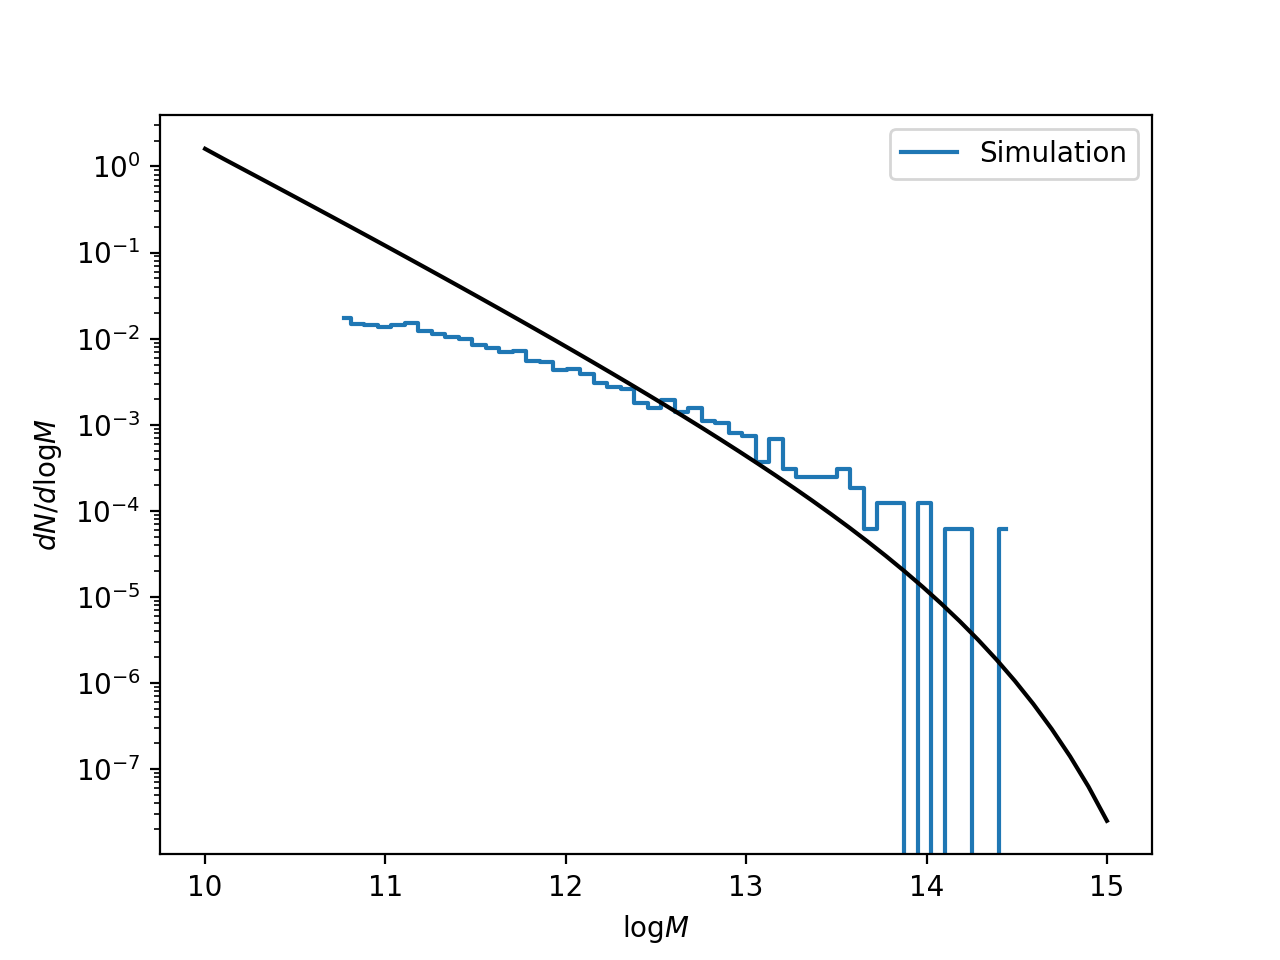
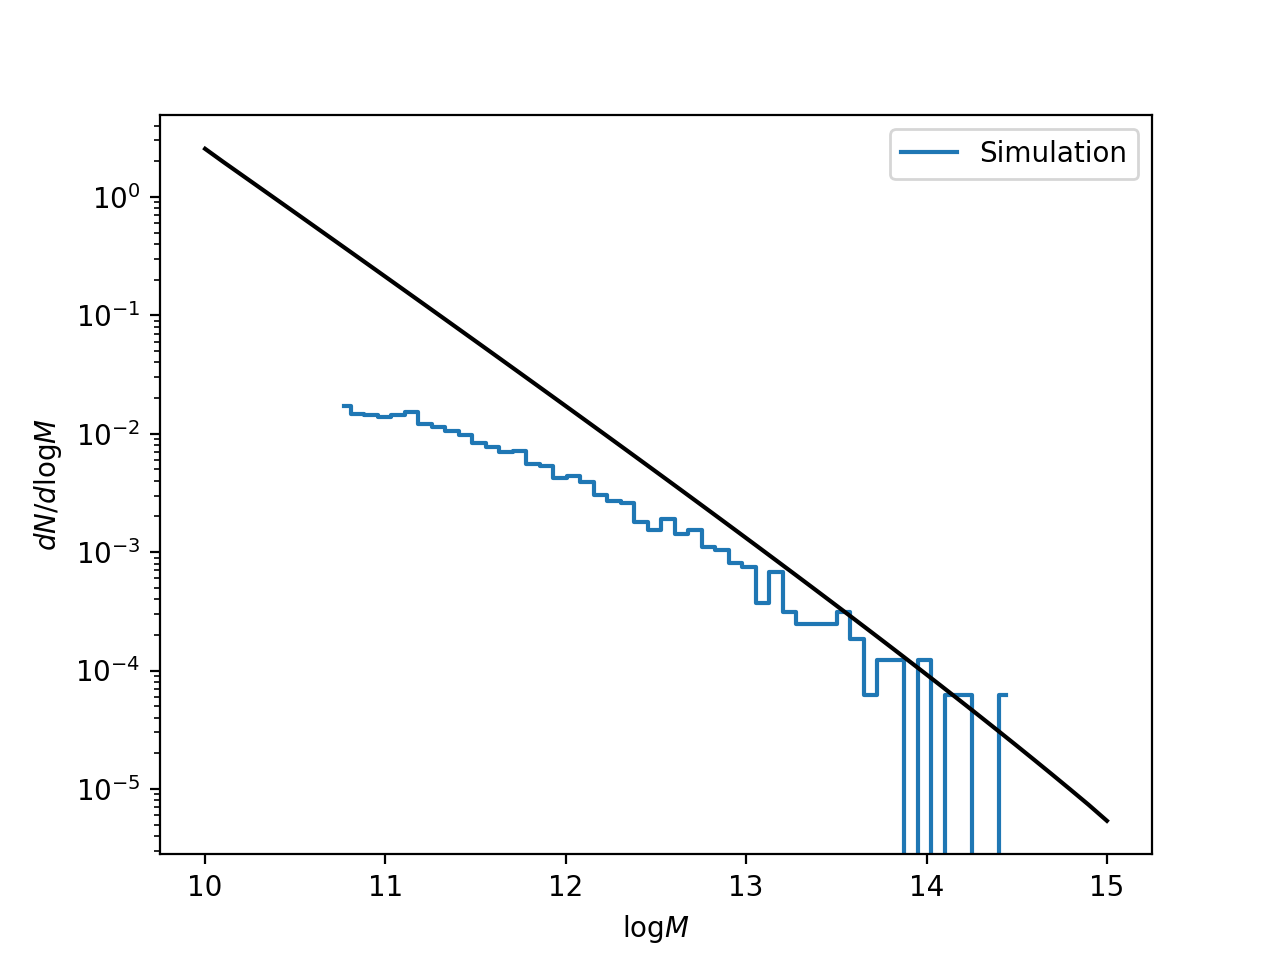
edit post

diff --git a/_posts/2020-02-18-Halo_Mass_Function.md b/_posts/2020-02-18-Halo_Mass_Function.md
@@ -28,7 +28,7 @@ First, I will check that the halo mass function measured from the simulation agr
 
 $$\dfrac{dn}{d \ln M} =f (\sigma) \dfrac{\rho_c}{M} \dfrac{d \ln \sigma^{-1}}{d \ln M}$$
 
-where $$dn/d\ln M$$ is the comoving number density of halos and $$\rho_c = 3 H^2/8 \pi G$$,  is the critical density. Note that to convert this to $$\log$$ space, $$\dfrac{dn}{d \log M} =\ln(10) \dfrac{dn}{d \ln M}$$
+where $$dn/d\ln M$$ is the comoving number density of halos and $$\rho_c = 3 H^2/8 \pi G$$,  is the critical density. Note that to convert this to $$\log$$ space, $${dn}/{d \log M} =\ln(10) {dn}/{d \ln M}$$
 
 
 
@@ -60,7 +60,7 @@ The fluctuations are given by:
 
 $$\sigma^2(M,z) = \int_0^\infty P(k) W^2(kR(M)) k^2 dk$$
 
-The background density, $$\rho_b = M/(4 \pi R^3/3)$$ gives the relation between mass and radius. $$W$$ is the smoothing filter. For a top-hat filter, it is given by:
+The relationship between mass and radius is given by $$200 \rho_c = M/(4 \pi R^3/3)$$. $$W$$ is the smoothing filter. For a top-hat filter, it is given by:
 
 $$ W (kR) = 3 \left[ \dfrac{\sin kR}{(kR)^3} - \dfrac{ \cos kR}{(kR)^2} \right] $$
 
